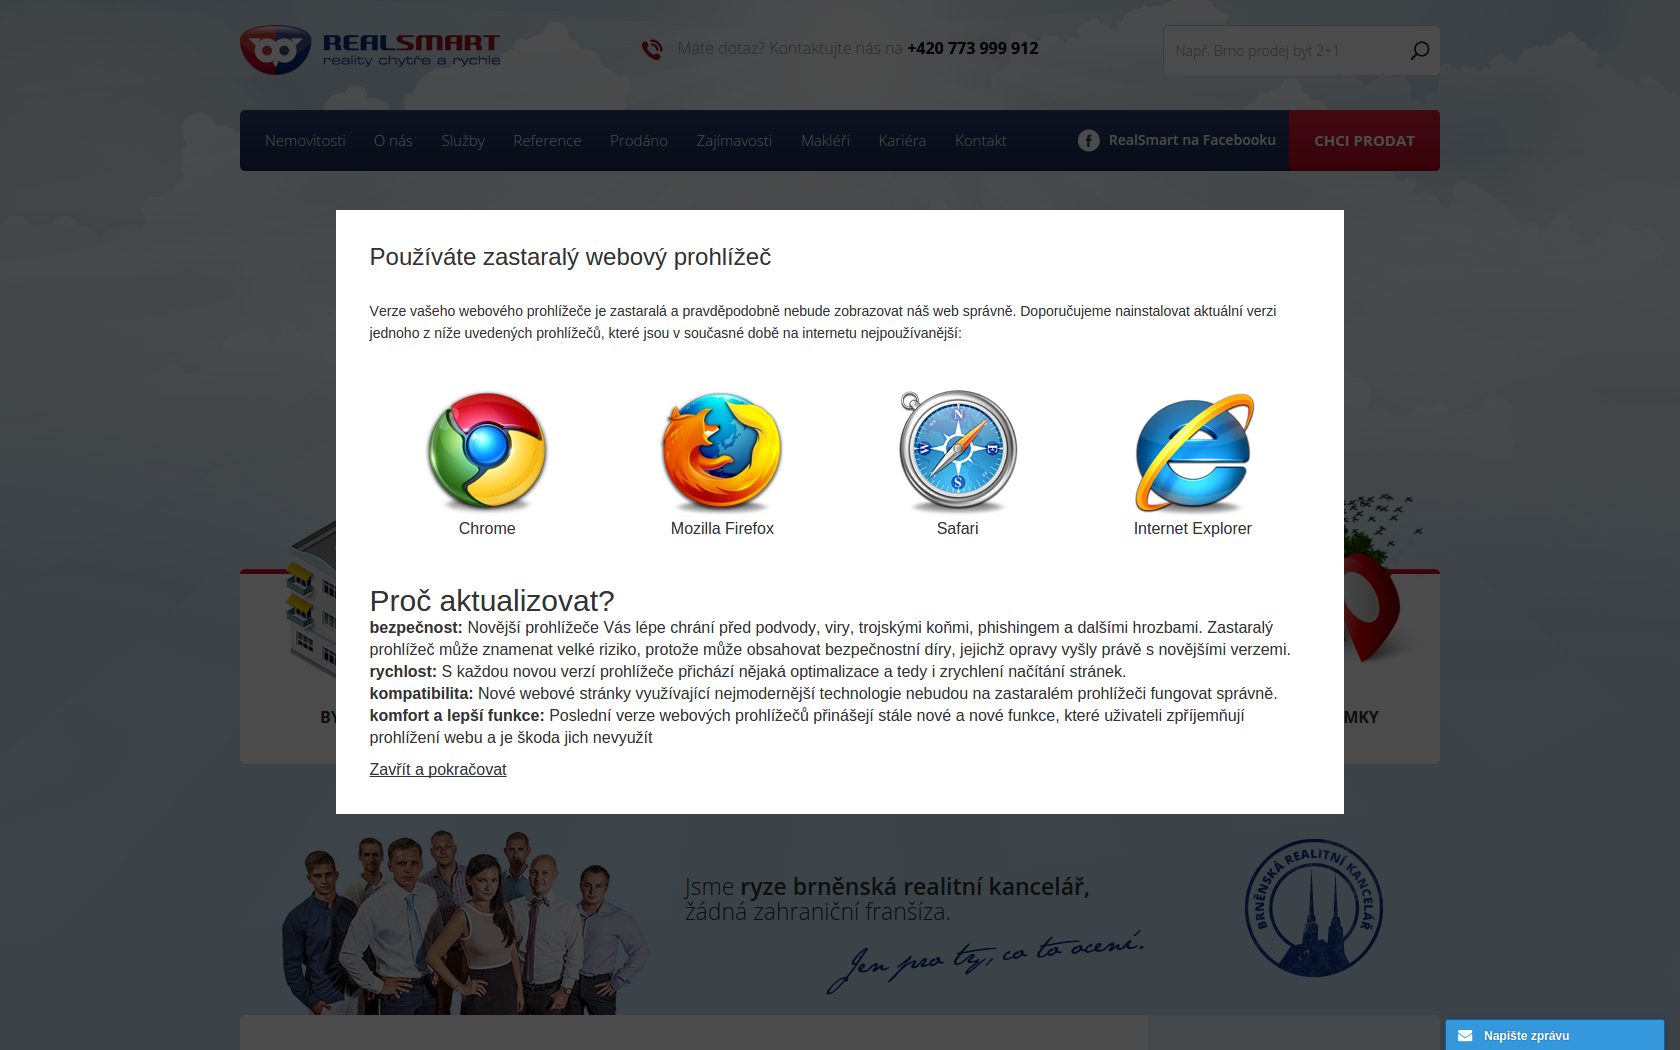
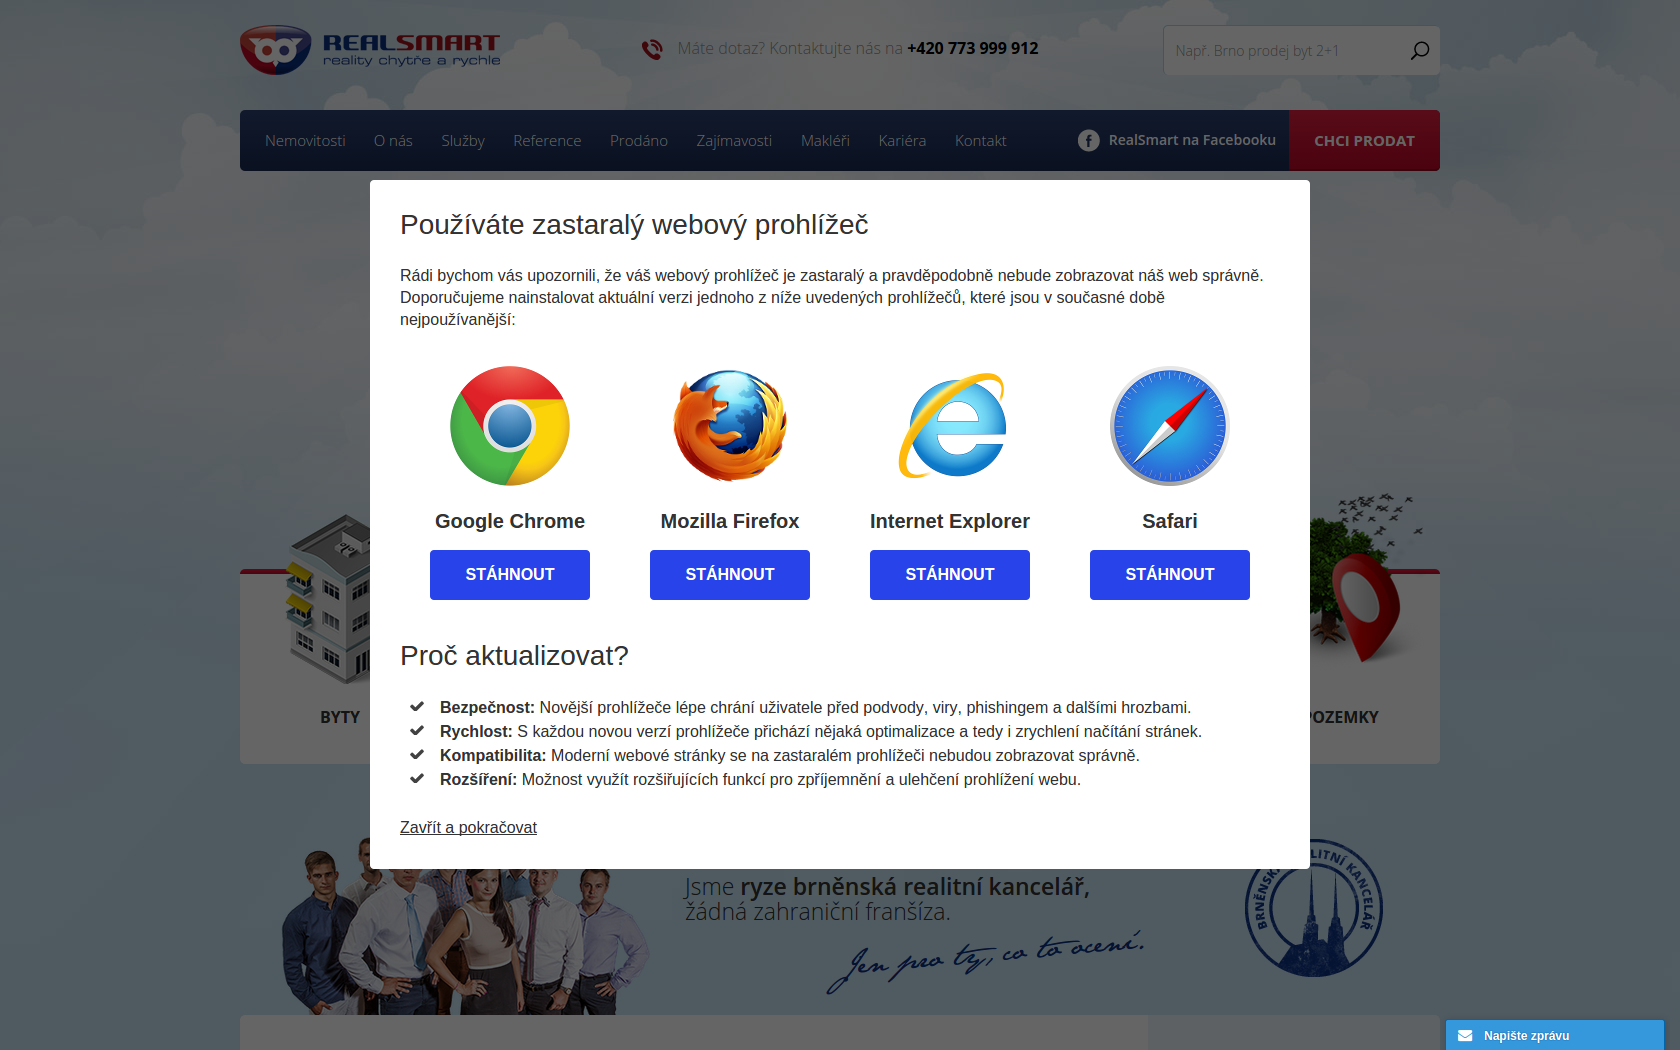
image changed, css updated

diff --git a/bupdate.js b/bupdate.js
@@ -56,7 +56,7 @@ var BrowserUpdate = {
     getBrowserInfoBoxCSS: function () {
         this.createElement('style', '', '' +
         '#browser-update-box * { box-sizing: border-box!important; -moz-box-sizing: border-box!important; -webkit-box-sizing: border-box!important; }' +
-        '#browser-update-box { display: table!important; z-index: 1000000!important; position: absolute!important; top: 0!important; left: 0!important; width: 100%!important; height: 100%!important; background: rgba(0, 0, 0, 0.6)!important; filter:progid:DXImageTransform.Microsoft.gradient(startColorstr=#99000000, endColorstr=#99000000)!important; -ms-filter: "progid:DXImageTransform.Microsoft.gradient(startColorstr=#99000000, endColorstr=#99000000)"!important; font-family: Arial!important; font-size: 16px!important; color: #333!important; }' +
+        '#browser-update-box { display: table!important; z-index: 1000000!important; position: fixed!important; top: 0!important; left: 0!important; width: 100%!important; height: 100%!important; background: rgba(0, 0, 0, 0.6)!important; filter:progid:DXImageTransform.Microsoft.gradient(startColorstr=#99000000, endColorstr=#99000000)!important; -ms-filter: "progid:DXImageTransform.Microsoft.gradient(startColorstr=#99000000, endColorstr=#99000000)"!important; font-family: Arial!important; font-size: 16px!important; color: #333!important; }' +
         '#browser-update-box #browser-vertical-align { display: table-cell!important; vertical-align: middle!important; padding: 0 15px!important; }' +
         '#browser-update-box #browser-update-content { position: relative!important; margin: 0 auto!important; width: 100%!important; max-width: 940px!important; padding: 30px!important; background: #fff!important; border-radius: 4px!important; -webkit-border-radius: 4px!important; -moz-border-radius: 4px!important; }' +
         '#browser-update-box #browser-update-content h1 { color: #333!important; font-size: 28px!important; margin: 0!important; margin-bottom: 25px!important; }' +
